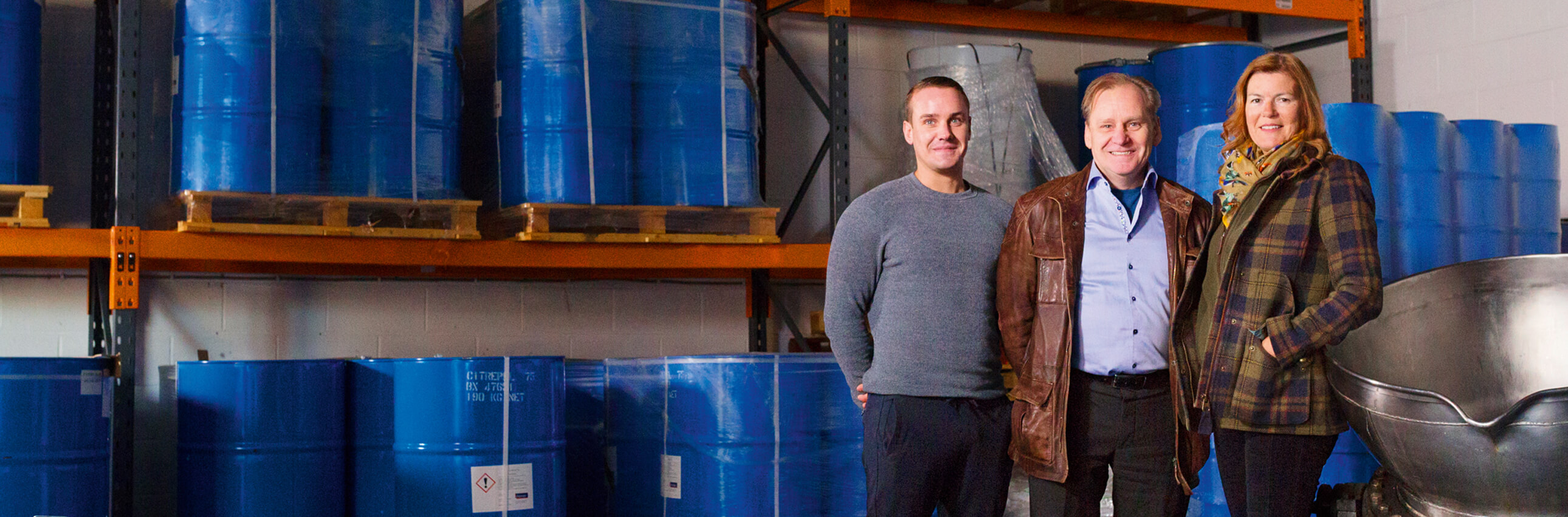
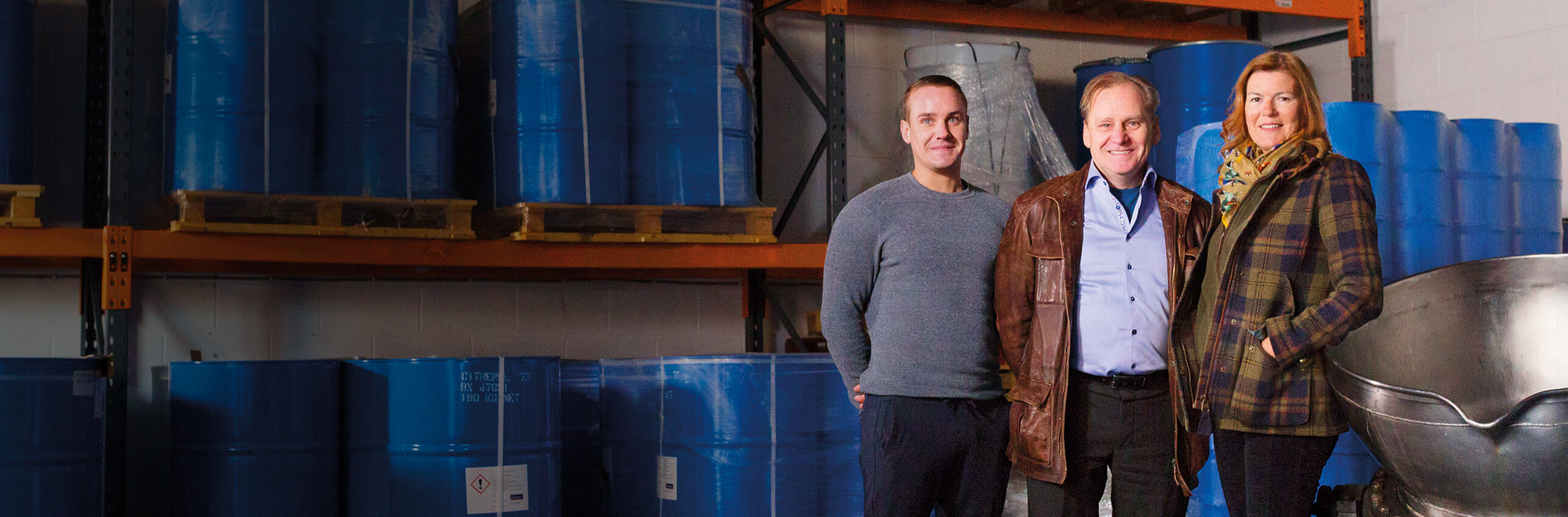
Update Landing page Hero image to something darker

diff --git a/app/assets/stylesheets/transformation/pages/landing.scss b/app/assets/stylesheets/transformation/pages/landing.scss
@@ -52,9 +52,9 @@ section {
 
 .hero-section {
   background-image: asset_url("backgrounds/ExOpps_HeroBanner1290x400_27@2x.jpg");
-  background-position: center;
+  background-position: top left;
   background-repeat: no-repeat;
-  background-size: 100%;
+  background-size: cover;
   padding: 0 0 $spacing-3 0;
 
   h1 {
@@ -206,12 +206,6 @@ section {
 }
 
 // RESPONSIVE
-@media screen and (max-width: 1420px) {
-  .hero-section {
-    background-size: auto 100%;
-  }
-}
-
 @media screen and (max-width: 1200px) {
   #service-promotion {
     background-size: auto 100%;
@@ -252,13 +246,6 @@ section {
 @media screen and (max-width:768px) {
   .quote {
     width: 75%;
-  }
-}
-
-@media screen and (max-width: 680px) {
-  .hero-section {
-    background-size: auto;
-    background-position: 60% -60px;
   }
 }
 
